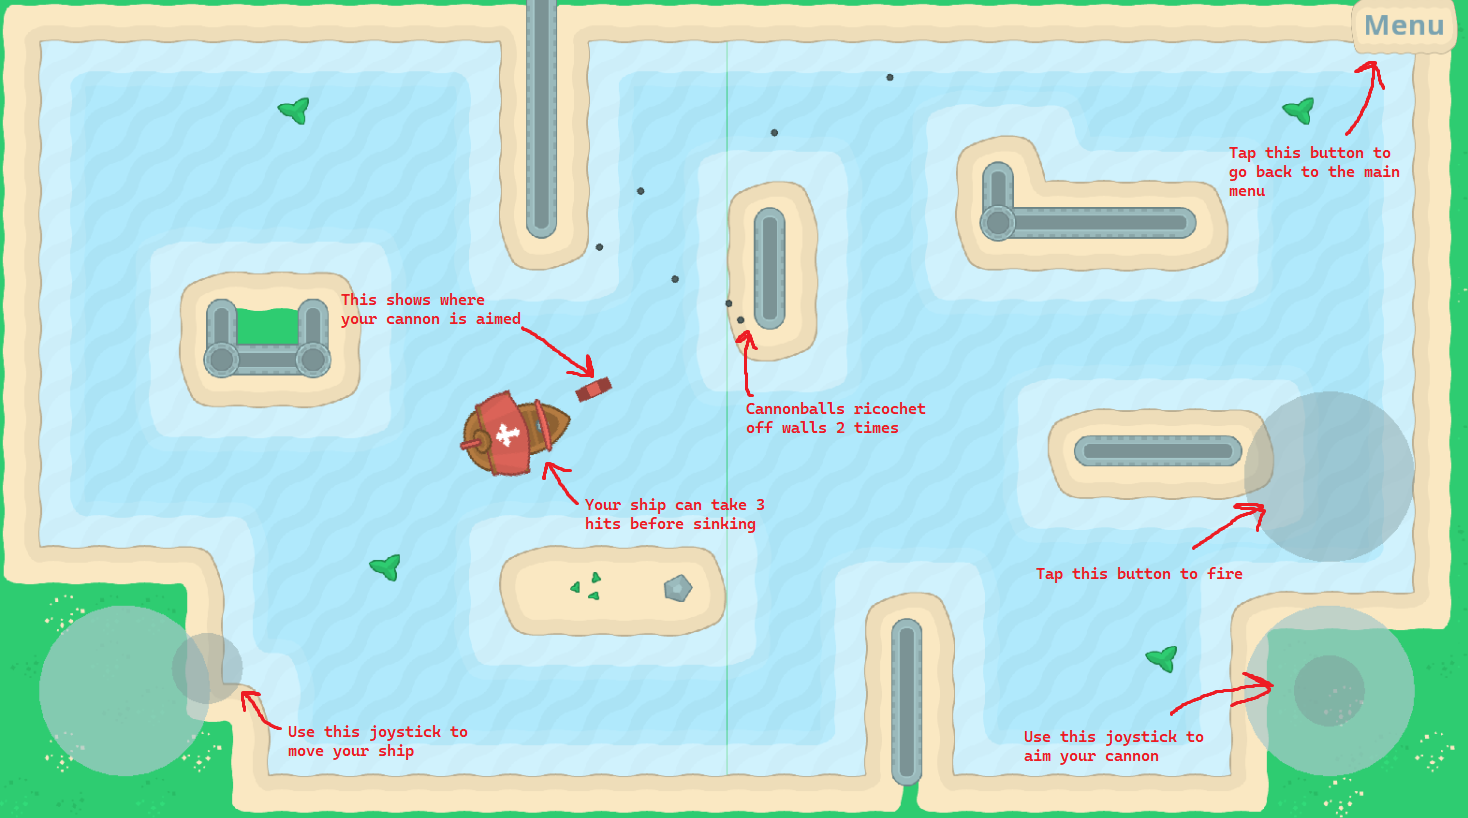
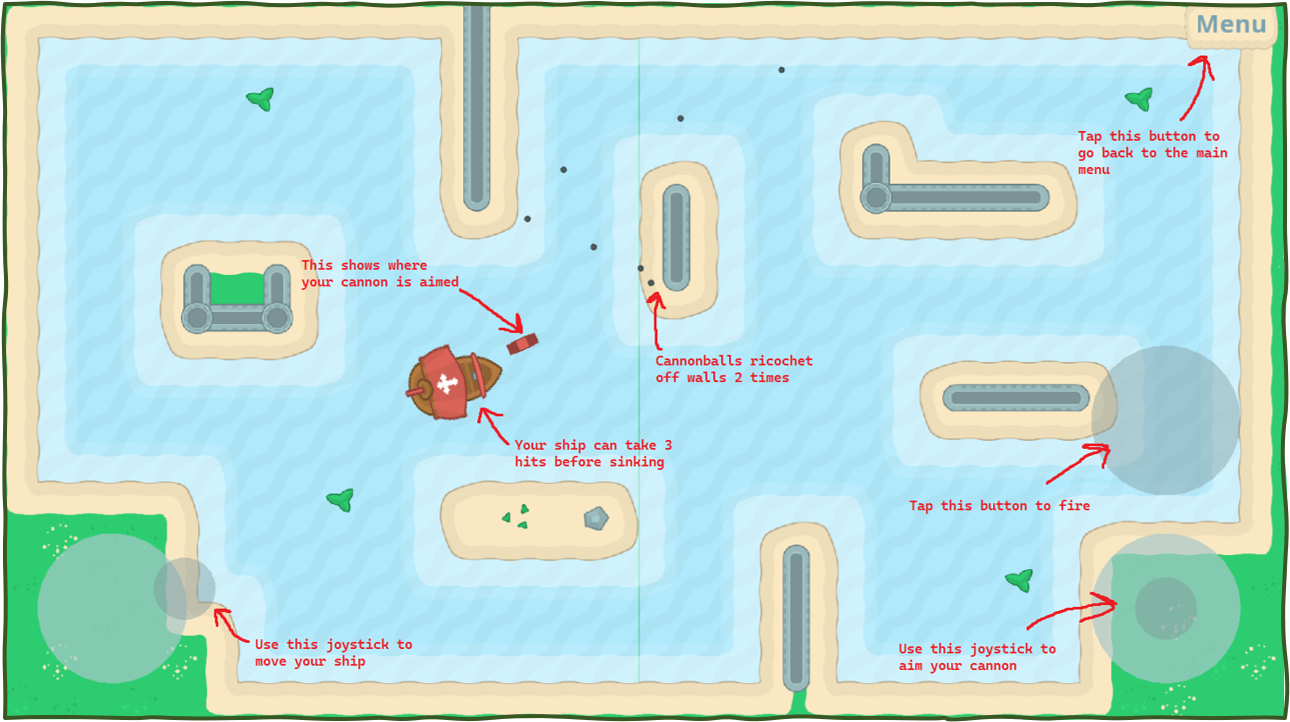
Redesign of tutorialView

diff --git a/core/src/com/mygdx/shapewars/view/TutorialView.java b/core/src/com/mygdx/shapewars/view/TutorialView.java
@@ -21,6 +21,7 @@ public class TutorialView implements Screen {
 	private TextButton nextButton;
 	private int sourceInt;
 	private Sprite imageSprite;
+	private Sprite backgroundSprite;
 	private SpriteBatch batch;
 
 	public TutorialView(ShapeWarsController controller, int sourceInt) {
@@ -35,7 +36,7 @@ public class TutorialView implements Screen {
 
 	private void buildUI() {
 		float nextButtonsWidth = 250f;
-		float nextButtonsHeight = 100f;
+		float nextButtonsHeight = 80f;
 		float nextButtonXPos = Gdx.graphics.getWidth() / 2f - 250 / 2;
 		float nextButtonYPos = 0;
 
@@ -70,10 +71,15 @@ public class TutorialView implements Screen {
 
 	@Override
 	public void show() {
+		Texture background = new Texture(Gdx.files.internal("maps/mapExpansionGrass.png"));
+		backgroundSprite = new Sprite(background);
+
 		Texture image = new Texture(Gdx.files.internal("mainMenu/tutorial.png"));
 		imageSprite = new Sprite(image);
-		imageSprite.setSize(Gdx.graphics.getWidth(), Gdx.graphics.getHeight());
-		imageSprite.setY(0);
+		imageSprite.setScale(1.1f);
+		imageSprite.setCenter(Gdx.graphics.getWidth()/2f,Gdx.graphics.getHeight()/2f);
+		//imageSprite.setPosition(Gdx.graphics.getWidth()/2f, Gdx.graphics.getHeight()/2f);
+
 		Gdx.input.setInputProcessor(stage);
 		render(0);
 	}
@@ -89,6 +95,7 @@ public class TutorialView implements Screen {
 		controller.gameModel.batch.end();
 
 		batch.begin();
+		backgroundSprite.draw(batch);
 		imageSprite.draw(batch);
 		batch.end();
 

diff --git a/core/src/com/mygdx/shapewars/view/UIBuilder.java b/core/src/com/mygdx/shapewars/view/UIBuilder.java
@@ -30,10 +30,9 @@ public class UIBuilder {
         this.skin = new Skin(Gdx.files.internal("data/custom.json"));
     }
 
-    public TextField buildTextField(String text, float width, float height, float xPos, float yPos) {
-        textField = new TextField(text, skin);
-
-        buildTextFieldStyle(skin);
+    public TextField buildTextField(String text, String styleName, float width, float height, float xPos, float yPos) {
+        buildTextFieldStyle(skin, styleName);
+        textField = new TextField(text, fieldStyle);
         textField.setSize(width, height);
         textField.setPosition(xPos, yPos);
         textField.setAlignment(Align.center);
@@ -53,7 +52,6 @@ public class UIBuilder {
     }
 
     public TextButton buildButton(String text, float width, float height, float xPos, float yPos, String styleName) {
-        //textButton = new TextButton(text, skin);
         buildButtonStyle(skin, styleName);
         textButton = new TextButton(text, buttonStyle);
         textButton.setSize(width, height);
@@ -63,9 +61,8 @@ public class UIBuilder {
         return textButton;
     }
 
-    private void buildTextFieldStyle(Skin skin) {
-        fieldStyle = new TextFieldStyle();
-        fieldStyle.font = skin.getFont("sans");
+    private void buildTextFieldStyle(Skin skin, String styleName) {
+        fieldStyle = skin.get(styleName, TextFieldStyle.class);
         fieldStyle.font.getData().setScale(1f);
     }
 

diff --git a/core/src/com/mygdx/shapewars/view/ClientView.java b/core/src/com/mygdx/shapewars/view/ClientView.java
@@ -39,7 +39,7 @@ public class ClientView implements Screen {
         this.stage = new Stage();
         this.uiBuilder = new UIBuilder(this.stage);
 
-        Texture background = new Texture(Gdx.files.internal("mainMenu/hostButtonBackground.png"));
+        Texture background = new Texture(Gdx.files.internal("mainMenu/background.png"));
         backgroundSprite = new Sprite(background);
 
         // make menu resizable
@@ -114,9 +114,7 @@ public class ClientView implements Screen {
         float okButtonXPos = Gdx.graphics.getWidth() / 2f + 50f;
         float okButtonYPos = Gdx.graphics.getHeight() / 2f - allButtonsHeight / 2 - 100f;
 
-        Skin skin = new Skin(Gdx.files.internal("data/custom.json"));
-
-        inputField = uiBuilder.buildTextField("Enter host IP address", inputFieldWidth, inputFieldHeight, inputFieldXPos, inputFieldYPos);
+        inputField = uiBuilder.buildTextField("Enter host IP address", "default", inputFieldWidth, inputFieldHeight, inputFieldXPos, inputFieldYPos);
 
         backButton = uiBuilder.buildButton("BACK", allButtonsWidth, allButtonsHeight,
                 backButtonXPos, backButtonYPos, "default");

diff --git a/core/src/com/mygdx/shapewars/view/MainMenuView.java b/core/src/com/mygdx/shapewars/view/MainMenuView.java
@@ -31,7 +31,7 @@ public class MainMenuView implements Screen {
         this.controller = controller;
         this.uiBuilder = new UIBuilder(this.stage);
         buildUI();
-        Texture background = new Texture(Gdx.files.internal("mainMenu/background.png"));
+        Texture background = new Texture(Gdx.files.internal("mainMenu/mainBackground.png"));
         backgroundSprite = new Sprite(background);
         Gdx.input.setInputProcessor(stage);
     }

diff --git a/core/src/com/mygdx/shapewars/view/HostView.java b/core/src/com/mygdx/shapewars/view/HostView.java
@@ -38,7 +38,7 @@ public class HostView implements Screen {
         this.stage = new Stage();
         this.uiBuilder = new UIBuilder(this.stage);
 
-        Texture background = new Texture(Gdx.files.internal("mainMenu/hostButtonBackground.png"));
+        Texture background = new Texture(Gdx.files.internal("mainMenu/background.png"));
         backgroundSprite = new Sprite(background);
 
         // make menu resizable
